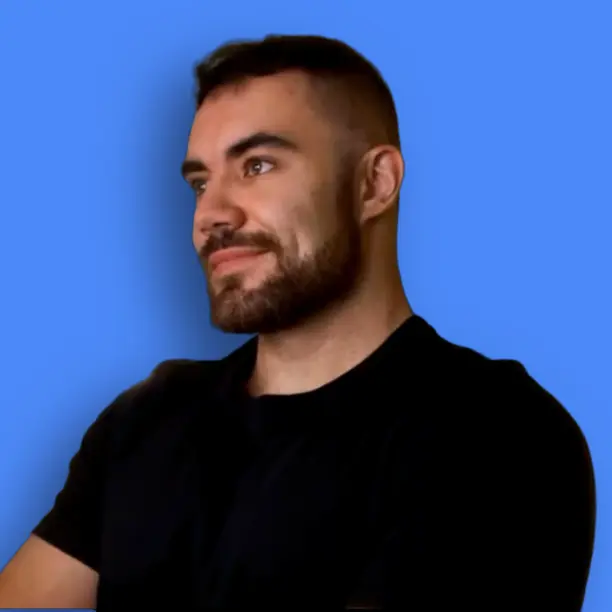
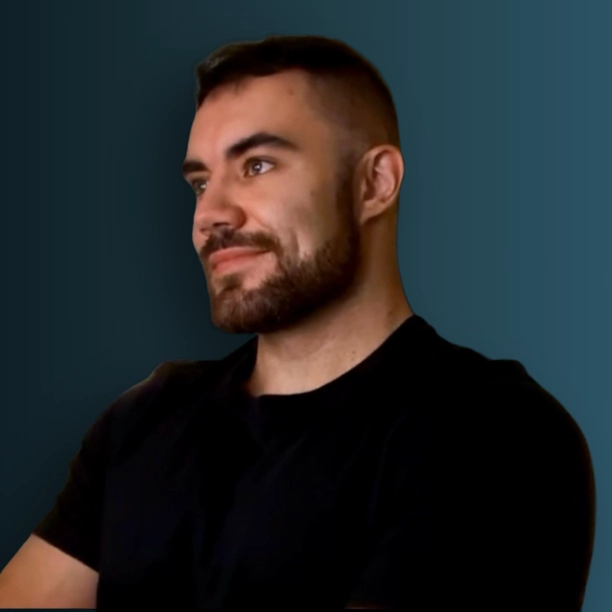
🎨 update portfolio design

diff --git a/src/styles/global.css b/src/styles/global.css
@@ -2,33 +2,33 @@
 
 :root {
   /* Base colors*/
-  --color-bg: #f9fafb;
-  --color-text: #1f2937;
-  --color-subtle: #4b5563;
-  --color-border: rgba(75, 85, 99, 0.3);
+  --color-bg:#f0f1f1;
+  --color-text: #000000;
+  --color-subtle: #424242;
+  --color-border: rgba(0, 0, 0, 0.1);
   --color-yellow-500: #eab308;
   --color-highlight: #eab308;
   
 
-  /* Buttons, pills, links */
-  --color-bg-pill: #f3f4f6;           /* gray-100 */
-  --color-border-pill: #d1d5db;       /* gray-300 */
-  --color-link: var(--color-text);   /* default link color */
+  /* Buttons, pills, links */           
+  --color-link: var(--color-text);   
   --color-link-hover: #ffffff;
 
-  --color-bg-pill-hover: #111827;     /* gray-900 */
-  --color-border-pill-hover: #374151; /* gray-700 */
+  --color-bg-pill: #f0f1f1;    
+  --color-bg-pill-hover: #111827;    
+  --color-border-pill: #d1d5db;   
+  --color-border-pill-hover: #374151; 
   --color-bg-pill-active: #000000;
 
   /* Navbar animation background + border */
-  --color-nav-bg-animated: rgba(255, 255, 255, 0.5); /* light mode */
+  --color-nav-bg-animated: rgba(255, 255, 255, 0.5); 
   --color-nav-border: rgba(0, 0, 0, 0.1);
-  --color-theme-option-hover-bg: #e5e7eb;      /* gray-200 */
-  --color-theme-option-hover-text: #1f2937;
+  --color-theme-option-hover-bg: #e2e2e2;      
+  --color-theme-option-hover-text: #000000;
 
   /* Badge colors (green theme) */
-  --color-badge-text: #166534;         /* green-800 */
-  --color-badge-bg: #dcfce7;           /* green-100 */
+  --color-badge-text: #166534;       
+  --color-badge-bg: #dcfce7;           
   --color-badge-gradient-start: #51E4B8;
   --color-badge-gradient-middle: #21554E;
   --color-badge-gradient-end: #51E4B8;
@@ -37,31 +37,32 @@
 html {
   background-color: var(--color-bg);
   color: var(--color-text);
-  font-family: 'Onest Variable', system-ui, sans-serif;
+  font-family: 'Geist Mono Variable', monospace, system-ui, sans-serif;
   transition: background-color 0.3s, color 0.3s;
 }
 
 html.dark {
-  --color-bg: #111827;
+  --color-bg: #1b1b1b;
   --color-text: #ffffff;
-  --color-subtle: #d1d5db;
+  --color-subtle: #a0a0a0;
+  --color-border: rgba(255, 255, 255, 0.3);
   --color-yellow-500: #facc15;
   --color-yellow-200: #fde68a;
   --color-highlight: #fde68a;
 
-  --color-bg-pill: #1f2937;           /* gray-800 */
-  --color-border-pill: #4b5563;       /* gray-600 */
   --color-link: #ffffff;
   --color-link-hover: #000000;
 
-  --color-bg-pill-hover: #f3f4f6;     /* gray-100 */
-  --color-border-pill-hover: #d1d5db; /* gray-300 */
-  --color-bg-pill-active: #f9fafb;    /* gray-50 */
+  --color-bg-pill: #1b1b1b;   
+  --color-bg-pill-hover: #f3f4f6;
+  --color-border-pill: rgba(255, 255, 255, 0.3);
+  --color-border-pill-hover: #d1d5db; 
+  --color-bg-pill-active: #f9fafb;    
 
   /* Navbar animation background + border for dark mode */
-  --color-nav-bg-animated: rgba(31, 41, 55, 0.9); /* gray-800/90 */
+  --color-nav-bg-animated: rgba(255, 255, 255, 0.05); 
   --color-nav-border: rgba(255, 255, 255, 0.1);
-  --color-theme-option-hover-bg: #374151;      /* gray-700 */
+  --color-theme-option-hover-bg: #303030;      
   --color-theme-option-hover-text: #f3f4f6; 
 
   /* Badge colors for dark mode */